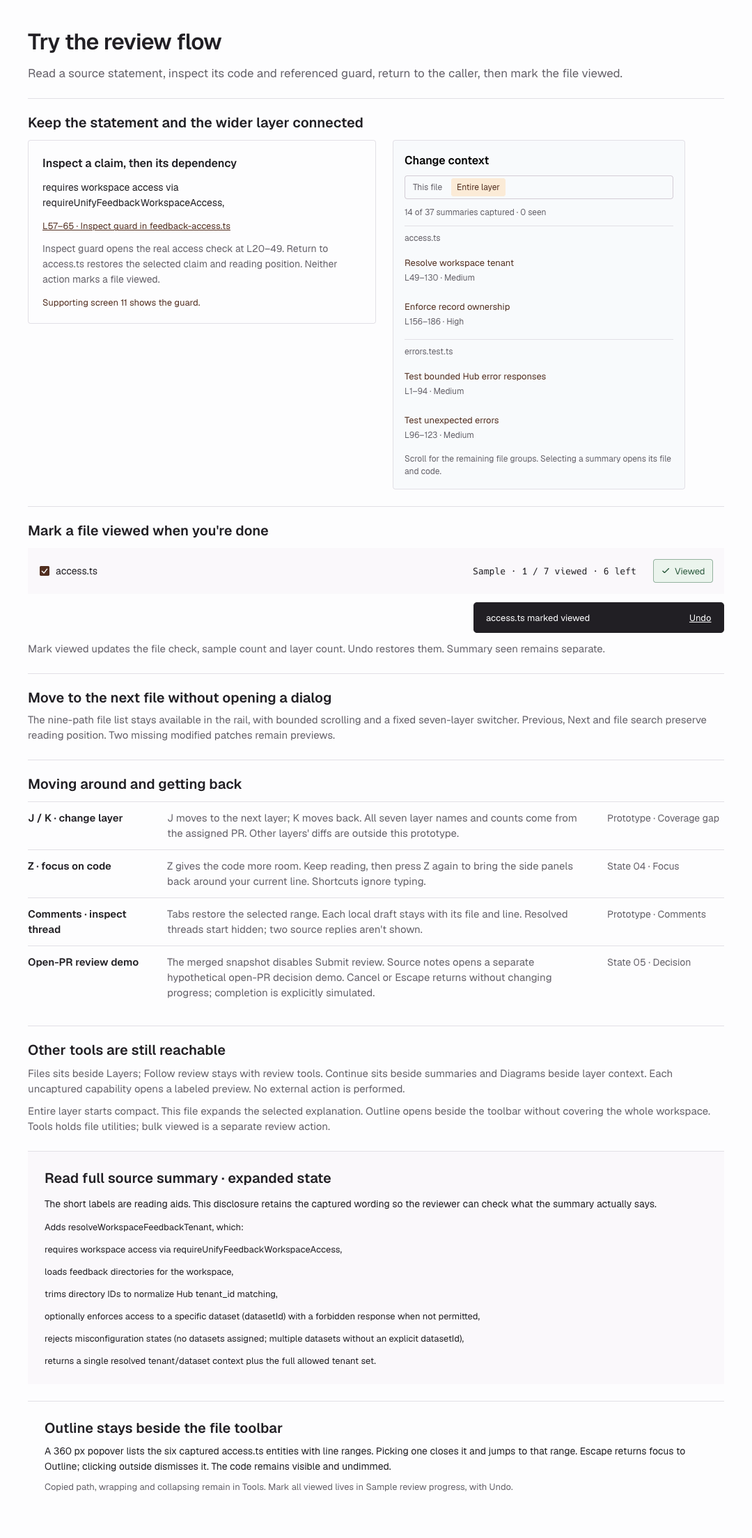
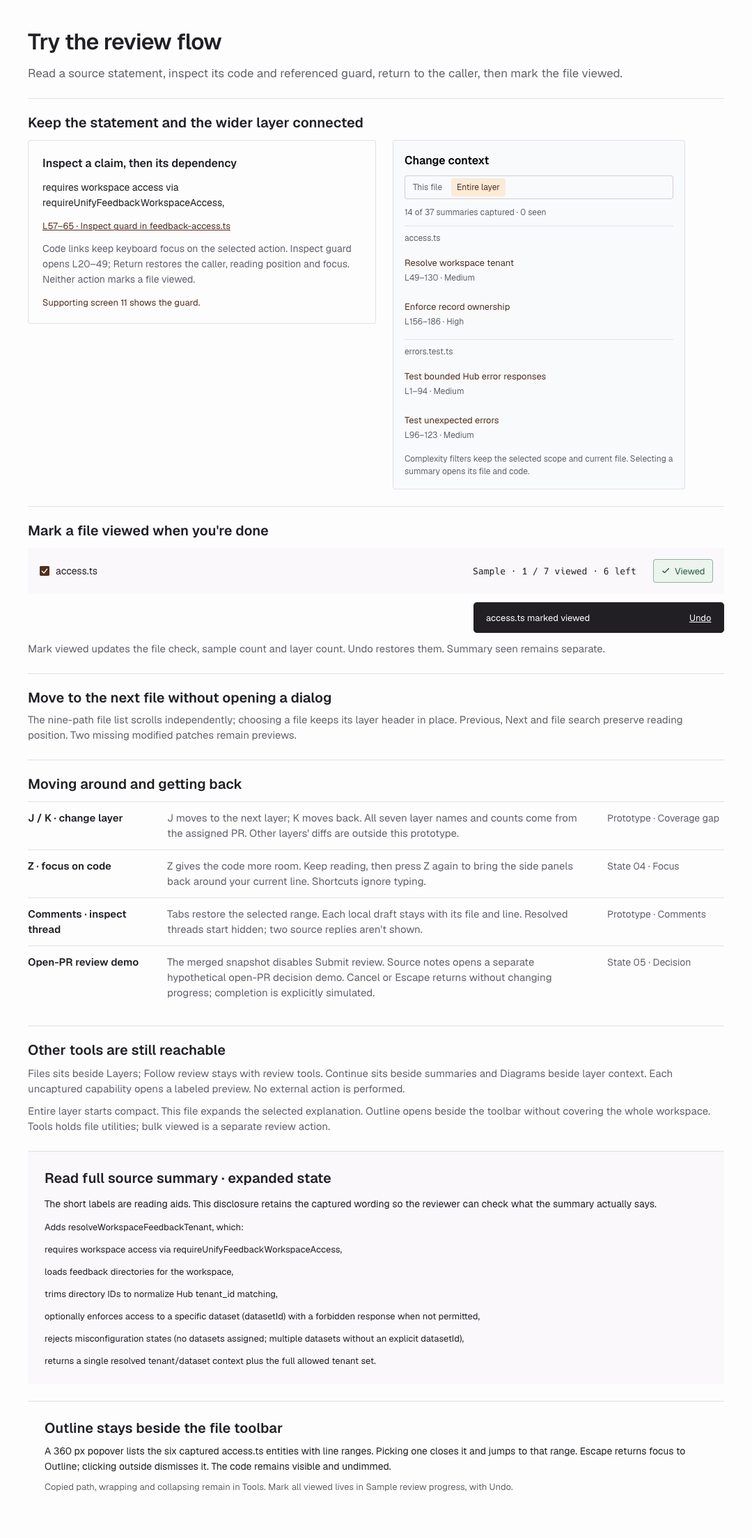
Preserve layer scope and keyboard position during review

diff --git a/dist/app.js b/dist/app.js
@@ -57,7 +57,7 @@ function renderNav(){
  $('#layer-list').innerHTML=data.layers.map((l,i)=>`<div class="layer-group"><button class="layer ${i===state.layer?'selected':''}" data-layer="${i}" ${l.severityNote?`title="${esc(l.severityNote)}"`:""} aria-expanded="${i===state.layer&&state.expanded}" ${i===state.layer?'aria-current="true"':''}><span class="layer-number">${i+1}</span><span class="layer-copy"><strong>${esc(l.name)}</strong><small>${l.files} files${i===0?` · ${state.viewed.size} / 9 viewed`:''}${l.findings?' · '+l.findings+' finding'+(l.findings===1?'':'s'):''}${l.severity?' · '+esc(l.severity):''}</small></span><svg class="chevron" viewBox="0 0 16 16" aria-hidden="true"><path d="m6 4 4 4-4 4"/></svg></button>${i===state.layer&&state.expanded?`<div class="layer-files">${i===0?data.files.map(f=>`<div class="file-nav-row"><label class="file-viewed-target"><input class="file-viewed" type="checkbox" data-view-file="${f.id}" aria-label="Mark ${esc(f.name)} viewed" ${state.viewed.has(f.id)?'checked':''} ${f.lines?'':'disabled title="Patch not captured"'}></label><button class="file-nav" data-file="${f.id}" ${f.id===state.file?'aria-current="true"':''} title="${esc(f.path)}${f.lines?'':' · Patch not captured'}">${esc(f.name)}</button></div>`).join(''):'<p class="source-gap">File inventory is outside this focused prototype.</p>'}</div>`:''}</div>`).join('');
  if($('#layer-list .layer-files'))$('#layer-list .layer-files').scrollTop=fileScroll;
  if(key){const attr=key==='viewFile'?'view-file':key;$(`#layer-list [data-${attr}="${value}"]`)?.focus({preventScroll:true})}
- const selected=$('#layer-list .file-nav[aria-current="true"]');if(selected){const nav=selected.closest('.layer-files'),r=selected.getBoundingClientRect(),bounds=nav.getBoundingClientRect();if(r.bottom>bounds.bottom||r.top<bounds.top)selected.scrollIntoView({block:'nearest'})}updateProgress()
+ const selected=$('#layer-list .file-nav[aria-current="true"]');if(selected){const nav=selected.closest('.layer-files'),r=selected.getBoundingClientRect(),bounds=nav.getBoundingClientRect();if(r.bottom>bounds.bottom)nav.scrollTop+=r.bottom-bounds.bottom;else if(r.top<bounds.top)nav.scrollTop+=r.top-bounds.top}updateProgress()
 }
 function updateProgress(){
  const count=data.files.filter(f=>f.lines&&state.viewed.has(f.id)).length;
@@ -180,7 +180,7 @@ function selectSummary(id,anchorKey){
  if(anchorKey&&[...anchorsFor(summary).map(a=>a.key),'start','whole'].includes(anchorKey))state.anchorSelections.set(id,anchorKey);state.fileNote=false;state.summary=id;state.activeLine=anchorFor(summary).start;state.commentLine=null;state.thread=false;state.codeRange=null;state.collapsed=false;state.tab='summaries';
  syncTabs();renderSummaries();renderComments();renderDiff();scrollToEvidence(true,true);$(`#summary-list [data-summary="${id}"]`)?.scrollIntoView({block:'nearest'});
  if(matchMedia('(max-width:1279px)').matches)openContext(false);
- restoreFocus=$(`#summary-list [data-summary="${id}"]`);$('#interaction-status').textContent=`${summary.title}. ${anchorFor(summary).label}, ${lineLabel(anchorFor(summary))}. Summary scope ${summary.range}.`
+ const destination=anchorKey?$(`#summary-list [data-evidence-summary="${id}"][data-evidence-key="${anchorKey}"]`):$(`#summary-list [data-summary="${id}"]`);destination?.focus({preventScroll:true});$('#interaction-status').textContent=`${summary.title}. ${anchorFor(summary).label}, ${lineLabel(anchorFor(summary))}. Summary scope ${summary.range}.`
 }
 function toggleFocus(){
  const position=readingPosition(),active=document.activeElement,entering=!state.focus;
@@ -241,7 +241,7 @@ $('#outline-panel').addEventListener('toggle',e=>{if(e.newState==='closed')$('#f
 function showReviewProgress(){openDialog('Sample review progress',`<p>${state.viewed.size} of 7 included diffs viewed. Two layer files have no captured patch, and the other layers are outside this sample.</p><button type="button" data-action="bulk-viewed">Mark 7 included files viewed</button><p class="small">This changes only the local sample. Undo restores the previous state. It does not submit a review.</p><div class="dialog-actions"><button value="cancel">Cancel</button></div>`)}
 function openFileNote(){state.codeRange=null;state.fileNote=true;state.commentLine=null;state.thread=false;state.tab='comments';syncTabs();renderDiff();renderComments();openContext(false);$('#comment-draft').focus()}
 function inspectGuard(){state.returnTrail.push({file:state.file,position:readingPosition(),view:{mode:state.mode,fullFile:state.fullFile,collapsed:state.collapsed,codeRange:state.codeRange,wrap:state.wrap,splitWrap:state.splitWrap,summary:state.summary,tab:state.tab,scope:state.scope,complexity:state.complexity,commentLine:state.commentLine,fileNote:state.fileNote,thread:state.thread,contextTop:$('#context-scroll').scrollTop}});selectFile('6');selectSummary('6-20','whole')}
-function returnContext(){const trail=state.returnTrail.pop();if(!trail)return;selectFile(trail.file);Object.assign(state,trail.view);renderScreen();restoreReadingPosition(trail.position);$('#context-scroll').scrollTop=trail.view.contextTop;$('#interaction-status').textContent='Returned to access.ts. Previous selection and reading position restored.'}
+function returnContext(){const trail=state.returnTrail.pop();if(!trail)return;selectFile(trail.file);Object.assign(state,trail.view);renderScreen();restoreReadingPosition(trail.position);$('#context-scroll').scrollTop=trail.view.contextTop;$('[data-action="inspect-guard"]')?.focus({preventScroll:true});$('#interaction-status').textContent='Returned to access.ts. Previous selection and reading position restored.'}
 async function copyPath(){try{await navigator.clipboard.writeText(currentFile().path);toast('File path copied.')}catch{toast('Clipboard unavailable. Select and copy the path below.');$('#dialog-content').insertAdjacentHTML('afterbegin',`<p class="copy-path-fallback">${esc(currentFile().path)}</p>`)}}
 function loadingDemo(){selectFile('0');$('#diff-status').hidden=true;$('#diff').innerHTML='<div class="skeleton" aria-busy="true" aria-label="Loading file"><span></span><span></span><span></span><span></span></div><div class="code-note">Loading-state preview. Normal navigation has no artificial delay.<br><button class="text-link" id="restore-excerpt">Load pinned source</button></div>'}
 function unavailableDemo(){openDialog('Observed source error',`<p>The live review initially loaded, but layer 2 later reported “Layer diff did not load.” Public repository checks were temporarily rate limited.</p><p>This is distinct from files intentionally outside the prototype fixture.</p><div class="dialog-actions"><button value="cancel">Return to pinned fixture</button><button type="button" id="retry-source">Retry source preview</button></div><p id="retry-result" role="status"></p>`)}
@@ -255,7 +255,7 @@ document.addEventListener('click',e=>{
  if(b.dataset.evidenceSummary){selectSummary(b.dataset.evidenceSummary,b.dataset.evidenceKey);return}
  if(b.dataset.summary){if($('#dialog').open)$('#dialog').close();selectSummary(b.dataset.summary);return}
  if(b.dataset.seen){state.seen.has(b.dataset.seen)?state.seen.delete(b.dataset.seen):state.seen.add(b.dataset.seen);b.setAttribute('aria-pressed',String(state.seen.has(b.dataset.seen)));b.textContent=state.seen.has(b.dataset.seen)?'Seen · undo':'Mark seen';$('#summary-progress').textContent=`${state.seen.size} / 37 layer summaries seen`;toast('Summary progress updated. File viewed and review decision are unchanged.');return}
- if(b.dataset.complexity){state.complexity=b.dataset.complexity;const first=currentFile()?.summaries.find(s=>state.complexity==='All'||s.complexity===state.complexity);if(first)selectSummary(first.id);else{state.summary=null;state.commentLine=null;state.thread=false;state.tab='summaries';syncTabs();renderSummaries();renderComments();renderDiff()}return}
+ if(b.dataset.complexity){state.complexity=b.dataset.complexity;if(state.scope==='layer'){renderSummaries();const count=$$('#summary-list [data-summary]').length;$('#interaction-status').textContent=`${state.complexity} complexity. ${count} captured summaries in this layer. Current file unchanged.`;return}const first=currentFile()?.summaries.find(s=>state.complexity==='All'||s.complexity===state.complexity);if(first)selectSummary(first.id);else{state.summary=null;state.commentLine=null;state.thread=false;state.tab='summaries';syncTabs();renderSummaries();renderComments();renderDiff()}return}
  if(b.dataset.preview){preview(b.dataset.preview);return}
  if(b.dataset.noteLine){b.dataset.noteLine==='file'?openFileNote():openNote(Number(b.dataset.noteLine));return}
  if(b.dataset.commentLine){openNote(Number(b.dataset.commentLine));return}

diff --git a/dist/index.html b/dist/index.html
@@ -5,8 +5,8 @@
   <title>CodeRabbit Change Stack · Review redesign</title>
   <meta name="description" content="An independent CodeRabbit review workspace prototype by Parth Pawar. Explore layer navigation, connected summaries, focus mode, and review progress.">
   <meta name="robots" content="noindex,nofollow">
-  <link rel="stylesheet" href="styles.css?v=refinement-20261023">
-<link rel="stylesheet" href="brand.css?v=refinement-20261023"><link rel="stylesheet" href="live.css?v=refinement-20261023"></head>
+  <link rel="stylesheet" href="styles.css?v=readiness-20261022">
+<link rel="stylesheet" href="brand.css?v=readiness-20261022"><link rel="stylesheet" href="live.css?v=readiness-20261022"></head>
 <body>
   <a class="skip-link" href="#diff">Skip to code</a><a class="skip-link context-skip" href="#summaries-tab" data-action="skip-context">Skip to context</a>
   <section class="submission-bar" aria-label="Design assignment submission">
@@ -39,6 +39,6 @@
   <div class="toast" role="status" id="toast" hidden></div>
   <section id="outline-panel" popover="auto" aria-label="Semantic outline"></section>
   <dialog id="dialog" aria-labelledby="dialog-title"><form method="dialog" id="dialog-form"><div class="dialog-heading"><h2 id="dialog-title"></h2><button class="quiet" value="cancel" aria-label="Close dialog">Close</button></div><div id="dialog-content"></div></form></dialog>
-  <script src="app.js?v=refinement-20261023" defer></script>
+  <script src="app.js?v=readiness-20261022" defer></script>
 </body>
 </html>

diff --git a/docs/readiness-review.md b/docs/readiness-review.md
@@ -1,0 +1,111 @@
+# Submission readiness review
+
+Method: two independent assessments, design by `/root/readiness_design` and implementation evidence by `/root/readiness_evidence`, followed by reproduction and fixes in the main session. October 22, 2026.
+
+## Decision
+
+M is ready to present as a focused design prototype after the three interaction corrections below. It is not a validated replacement for the complete Change Stack workflow. The assignment asks for one strong screen, three to five diagnosed problems and a rationale or video; it does not require rebuilding all 52 diffs. Keep the four explorations archived. Do not add more frames to make the work look larger.
+
+The submission is specific to code review: named layers and files, manually mapped statement links, a caller/guard return path, explicit viewed state and an added-file Split treatment. The strongest contribution is continuity while reading. Its main weakness is density at 1280 × 720 and the limited evidence for improvement over the original.
+
+## The design argument
+
+The hypothesis is plausible: a reviewer should spend less effort locating the code behind a summary and recovering their place after inspecting a dependency. The prototype demonstrates the mechanism. It does not establish that reviewers understand the change better or find more defects.
+
+The original already has summary jumps, viewed state, keyboard navigation and focus mode. The contribution is finer statement links, explicit file/layer scope, clearer placement of actions and the return path. Preserve that distinction in the presentation.
+
+A narrow highlighted range can also encourage overconfidence. The label is a navigation aid, not a correctness verdict. Whole-function access, surrounding code and the original summary wording must remain available. Code-first review and disagreement with the summary are important counter-tests.
+
+## Fit against the actual assignment
+
+| Judging criterion | Evidence in this submission | Remaining weakness |
+| --- | --- | --- |
+| Spot the right problems | Annotated source shows competing control rows, broad summary scope, layer orientation and distinct progress meanings. | These are designer observations; there is no developer research showing frequency or severity. |
+| Better visual and micro-interaction polish | Precise selection, guard/return, deliberate viewed with Undo, fixed context controls, wrapped code and Focus. | Six statement blocks are tall on a 720px display. Tools still interrupts reading with a dialog. |
+| Make the same information easier to scan | Same imports and six source points in the matched comparison; shorter labels retain full wording. | The static comparison checks content retention, not task performance. Seven complete added-file diffs and fourteen summaries are only part of the original. |
+| Explain why | One-page rationale and three-minute script connect changes to the review task and acknowledge tradeoffs. | The presentation must show the task early. A long tour of limitations, counts and archived explorations would weaken it. |
+
+The brief explicitly accepts a prototype, so the working browser link covers that deliverable. Paper is the editable design record and requires sign-in. Brand matching and frame volume are not grading criteria. The original expected effort is one to two hours; do not claim this extended iteration was completed within that time.
+
+## Independent design assessment
+
+The pre-fix heuristic assessment was 29/40. This is a design checklist score, not a predicted hiring score or a user-study result. The three implementation corrections have not been assigned a new score.
+
+| Heuristic | Score / 4 | Main observation |
+| --- | ---: | --- |
+| Visibility of status | 3 | Scope and status are explicit; several denominators compete. |
+| Match with developer practice | 3 | Paths, diffs and review terms fit; sample versus layer progress needs explanation. |
+| User control | 3 | Return, Undo and cancellation exist. |
+| Consistency | 3 | Coherent structure; Paper and browser differ in code styling and some metadata placement. |
+| Error prevention | 3 | Merged submission is disabled and simulations are labeled. |
+| Recognition | 3 | File names and code links help; numeric layer shortcuts rely on learned positions or labels. |
+| Efficiency | 3 | Shortcuts and reading-state restoration help; nested scrolling adds cost. |
+| Minimalist design | 2 | Secondary chrome and tall statement blocks still crowd the reading area. |
+| Recovery | 3 | Unavailable, retry, local notes and Undo are represented. |
+| Help | 3 | Labels and source notes exist; the task to try is clearer in Paper than on the prototype alone. |
+
+The bounded HTML detector reported zero findings. That result does not assess developer comprehension, external CSS quality or full accessibility. Manual testing found defects the detector did not catch.
+
+## Corrections made in this pass
+
+Paper's interaction contract was updated first; the browser implementation and native/PNG flow exports were then updated.
+
+1. **P2: a layer-wide complexity filter silently became a file filter.** Entire layer → High called the same function used to open an individual summary. The new path filters the current scope without changing file or code position. High returns four captured matches across four files; Medium returns ten; Low returns an explicit capture-gap state; All returns fourteen. A High filter also works while errors.test.ts, which has no High summary, remains the current file.
+2. **P2: evidence links lost keyboard focus.** Replacing summary markup removed the focused button. The replacement evidence action now receives focus with no extra scrolling. Statement links, Whole function and Go to start were checked using Enter. Return from the guard restores focus to Inspect guard.
+3. **P2: revealing the selected file moved the outer layer list.** Browser scrollIntoView scrolled both the file sublist and its parent, clipping the active layer heading. The correction scrolls only the bounded file list. Guard navigation now leaves the outer layer scroll at zero in the tested initial flow.
+
+The source fixtures remain unchanged. The rationale's argument and recording sequence remain valid; these fixes make their described behavior hold in the tested cases. Two stale repository descriptions of the comparison and source summary were corrected.
+
+## Remaining priorities
+
+### P1 for presentation: show the task, not only the matched screenshot
+
+The matched screenshot holds code at imports while the summary refers to a function further down. Keep it as the content-retention checkpoint. Then immediately demonstrate L57–65 → Inspect guard → Return to access.ts. The existing main and guard states are sufficient; no new concepts are needed. Do not imply that a different diff mode or shorter wording alone proves faster review.
+
+### P2 for the next visual iteration: compact the six statement actions
+
+At 1280 × 720, the selected summary's last point and full-source disclosure require context scrolling. A compact clickable row with the label and range together would reduce this height without smaller text. Keep the guard action subordinate. This is a candidate for the next comparison, not an untested late redesign applied to every frame.
+
+### P2 for validation: challenge the summary-led hypothesis
+
+The demonstration follows the exact path the prototype optimizes. Add a code-first task and ask what evidence would make the reviewer disagree with a summary. Watch whether precise anchors cause people to skip a relevant guard or branch. Success requires explanation accuracy as well as fewer wrong turns.
+
+### P3: clarify the authority of Paper and the prototype
+
+Paper defines the composition and intended interaction states. The browser is the executable behavior reference; it has richer syntax coloring and slightly different metadata placement. They are aligned in content and workflow, not pixel-identical. Do not claim pixel parity.
+
+## Persona checks
+
+- A first-time evaluator can identify the selected file but may not know why 7, 9, 6 and 52 appear together. The labels are accurate; demonstrate one task before explaining coverage.
+- An experienced developer will question manual anchors, missing semantic boundaries and whether summary-led reading biases review. Acknowledge those implementation and validation questions directly.
+- A keyboard user encountered the confirmed focus defect. The corrected anchor flow passes the targeted checks, but a complete screen-reader audit has not been run.
+
+Cognitive load remains moderate. The toolbar exposes six peer controls, layer navigation has seven shortcuts, and the selected summary has six statement actions plus source/range/seen actions. These are real capabilities. Better grouping and fewer repeated rows would be more useful than hiding them simply to meet an arbitrary count.
+
+The interaction's strongest moment is returning from the guard without losing the caller. The initial merged/stale/sample labels can make the entry feel defensive. End the presentation on the completed reading loop and the next test, rather than the disabled Submit button.
+
+## A small, useful validation session
+
+Recruit a few developers who review TypeScript PRs. Use the same commit and content on both interfaces; vary which interface they see first. Treat this as formative feedback, not statistical proof.
+
+| Task | Observe | Failure signal |
+| --- | --- | --- |
+| Explain the workspace access check and inspect the referenced guard | Wrong turns, backtracking and explanation accuracy | They return successfully but misunderstand the entitlement or access condition. |
+| Start from the code and explain what would need further inspection | Independent reading and use of surrounding code | They treat the selected AI statement as sufficient evidence. |
+| Find High-complexity captured changes across the layer | Scope comprehension and missing matches | They assume a file filter is a layer filter or overlook other files. |
+| Mark one file viewed, switch files, return and correct the mark | Confidence about what changed and what was submitted | They confuse viewed, summary seen or approval. |
+
+Do not seed a fabricated finding into the real PR. Ask reviewers to explain uncertainty in the actual code. Record the observed difficulty, the smallest change that could address it and whether the next attempt improves comprehension.
+
+## If CodeRabbit chose to build this
+
+1. Reuse its existing semantic-diff, summary and review-state services. Do not ship the static fixture as a production engine. First implement the layout, explicit scope and local reading history with existing data.
+2. Define each anchor by review run, commit, path, diff side and range. Verify that the target still belongs to the pinned snapshot. If it moves, stop the jump and offer the pinned or updated version; never silently highlight unrelated code.
+3. Validate one modified-file example with additions, deletions and unchanged context before generalizing the Split treatment. Keep layer-owned changes distinct from full-file context.
+4. Define persistence, server errors, permissions and review submission behavior before connecting the local prototype actions to real services. Generalized dependency traversal is a separate engineering question.
+
+## What to present
+
+Send the public prototype and rationale, plus Paper as the editable source. Keep M final. The archive, review reports and future concepts are supporting material if asked. The current recording script already follows the right order: diagnosis, brief comparison, code check, guard/return, scope, viewed/Undo and a testable hypothesis.
+
+The most useful final question is whether the reviewer understands the change better after using the design. More frames, AI critiques or working buttons cannot answer that on their own.

diff --git a/docs/DESIGN.md b/docs/DESIGN.md
@@ -109,11 +109,11 @@ Geist supplies interface text; Hack supplies code and technical metadata. Code i
 
 ## Navigation and context
 
-Previous/Next and the searchable position control navigate nine verified layer paths without skipping uncaptured patches. Opening a file never marks it viewed. Each file retains its summary, context tab and reading position. Unavailable patches keep their labeled navigation destination and recovery path.
+Previous/Next and the searchable position control navigate nine verified layer paths without skipping uncaptured patches. Opening a file never marks it viewed. Each file retains its summary, context tab and reading position. Revealing the selected file scrolls only its bounded list, preserving the outer layer heading. Unavailable patches keep their labeled navigation destination and recovery path.
 
-This file and Entire layer are explicit context scopes. File scope shows the source file's summary count and captured coverage. Entire layer groups fourteen captured summaries under the nine file paths and discloses the source total of 37; missing summaries remain coverage notices. Complexity filters apply to captured summaries, with a coverage empty state for uncaptured Low details. Summary options holds complexity filters and independent seen-summary progress.
+This file and Entire layer are explicit context scopes. File scope shows the source file's summary count and captured coverage. Entire layer groups fourteen captured summaries under the nine file paths and discloses the source total of 37; missing summaries remain coverage notices. Complexity filters retain the chosen scope and current file in Entire layer. They apply to captured summaries, with a coverage empty state for uncaptured Low details. Summary options holds complexity filters and independent seen-summary progress.
 
-The selected workspace-tenant summary shows six short behavior labels, each with a line link. Read full source summary preserves the original wording in a disclosure. Entire layer uses compact summary rows. Selecting an evidence link highlights its manually mapped statement or branch and labels the destination Evidence. Go to summary start retains access to the full function. Other captured summaries use their start as a navigation destination. Selection preserves diff signs and addition/deletion colors; reduced motion removes arrival animation while retaining labels.
+The selected workspace-tenant summary shows six short behavior labels, each with a line link. Read full source summary preserves the original wording in a disclosure. Entire layer uses compact summary rows. Selecting an evidence link retains keyboard focus on that action and highlights its manually mapped statement or branch and labels the destination Evidence. Go to summary start retains access to the full function. Other captured summaries use their start as a navigation destination. Selection preserves diff signs and addition/deletion colors; reduced motion removes arrival animation while retaining labels.
 
 Inspect guard on the workspace-access bullet opens feedback-access.ts at its captured 20–49 summary. Return to access.ts restores the caller's reading state. This is one captured caller/guard route; automatic dependency browsing and simultaneous paired panes are not implemented.
 

diff --git a/docs/REQUIREMENT-AUDIT.md b/docs/REQUIREMENT-AUDIT.md
@@ -8,7 +8,7 @@ The submission is one layer-based reviewing screen, editable Paper and a one-pag
 | --- | --- | --- |
 | Diagnose three to five parsing problems | File/control competition, broad summary scope, file/layer context and progress scope. | Design observations, without measured speed claims. |
 | Redesign one main reviewing screen | Persistent nine-path rail, compact layer heading, file toolbar, code and scoped context. | Supporting boards explain this screen; earlier approaches are archived. |
-| Retain source information | Matched imports, full six-point summary and captured progress; direct code links in the final screen. | Fourteen of 37 layer summaries and seven of 52 diffs are included. |
+| Retain source information | Matched imports and six source points; full wording available. Original progress is untouched; final M starts at zero. | Fourteen of 37 layer summaries and seven of 52 diffs are included. |
 | Preserve review capabilities | Summary navigation, explicit viewed status, J/K/Z, file navigation, comments and diff display controls remain. | Full parity and uncaptured workflows are not claimed. |
 | Make the decision reviewable | Paper diagnosis/comparison, prototype and one-page rationale. | Paper requires sign-in. |
 
@@ -18,7 +18,7 @@ The submission is one layer-based reviewing screen, editable Paper and a one-pag
 | --- | --- |
 | Layers and files | Seven layer names/counts; nine layer-1 paths persist in the rail. Previous/Next and searchable position retain file reading state. |
 | File and layer context | Fixed scope and tabs above a scrolling context body; This file and Entire layer; fourteen captured summaries grouped across nine paths, compared with 37 source summaries. |
-| Summary navigation | Original six workspace-tenant bullets with direct manually mapped line links. Other captured summaries retain their source ranges and starts. |
+| Summary navigation | Six short workspace-tenant checks with direct manually mapped line links; full original wording in a disclosure. Other captured summaries retain their source ranges and starts. |
 | Cross-file inspection | Inspect guard opens feedback-access.ts at its captured 20–49 summary; Return to access.ts restores the caller. One route, without automatic dependency mapping. |
 | Full file and range display | All captured added lines or captured summary ranges. Source semantic-diff engine is not recreated. |
 | Semantic outline | Six captured access.ts entities in an anchored Outline popover. Other entities are not inferred. |

diff --git a/docs/verification.md b/docs/verification.md
@@ -1,6 +1,17 @@
 # Prototype verification
 
-## Current refinement
+## Current readiness corrections
+
+October 22, 2026. Independent design and implementation reviews were followed by reproduction and correction of three P2 defects. The design assessment remains 29/40; no post-fix re-score or user-study claim is made.
+
+- Paper interaction notes were revised first, then browser behavior. Updated flow PNG/native exports match the contract.
+- Entire layer keeps its scope and current file for All (14 captured matches), High (4), Medium (10), and Low (0 captured matches). High also returns four matches while errors.test.ts remains current.
+- Enter on a statement, Whole function and Go to start retains focus on the replacement action. Guard Return restores focus to Inspect guard.
+- Guard navigation scrolls only the file sublist. The outer layer list remained at scrollTop 0 in the reproduced flow, retaining the layer heading.
+- Node syntax validation and git whitespace checks pass. The independent HTML detector returned zero findings. These checks do not establish complete accessibility or usability.
+- The current Arc tabs rendered blank; source analysis used the saved exact-session capture and accessibility record. The original assignment PDF was read again. Source fixtures, the one-page rationale and recording sequence are unchanged.
+
+## Earlier refinement
 
 - Revised Paper first, then the prototype, matched comparison, rationale, recording script and exports. M remains final. Fifteen Paper PNG/JSX pairs were refreshed.
 - Matched comparison now uses final M with the same imports and six source points. Original historical progress/status remain untouched; M has zero local progress and the later observed merged state.
